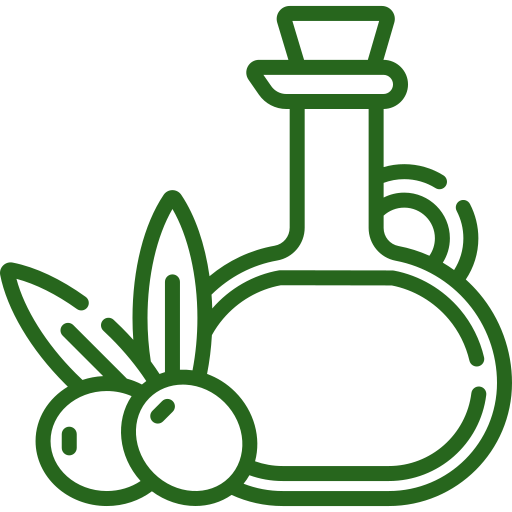
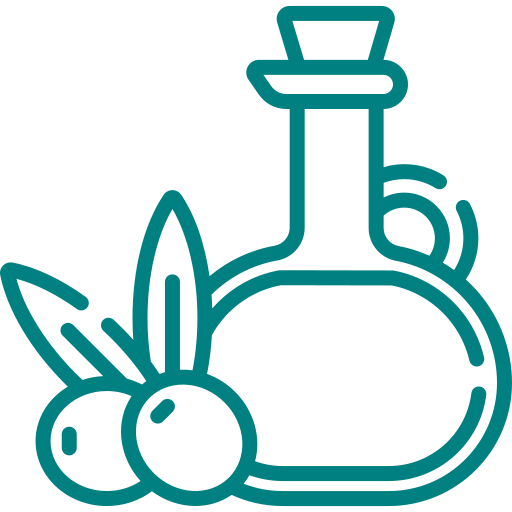
AGROAPP-56 Mejora de los iconos de aceit

Changed region(s): [[0.0, 0.0, 1.0, 1.0]]

diff --git a/src/pages/facturas-aceite-detalle/facturas-aceite-detalle.module.ts b/src/pages/facturas-aceite-detalle/facturas-aceite-detalle.module.ts
@@ -1,13 +1,13 @@
 import { NgModule } from '@angular/core';
 import { IonicPageModule } from 'ionic-angular';
-import { FFacturasAceiteDetallePage } from './facturas-aceite-detalle';
+import { FacturasAceiteDetallePage } from './facturas-aceite-detalle';
 
 @NgModule({
   declarations: [
-    FFacturasAceiteDetallePage,
+    FacturasAceiteDetallePage,
   ],
   imports: [
-    IonicPageModule.forChild(FFacturasAceiteDetallePage),
+    IonicPageModule.forChild(FacturasAceiteDetallePage),
   ],
 })
 export class FFacturasAceiteDetallePageModule {}

diff --git a/src/pages/facturas-aceite-detalle/facturas-aceite-detalle.html b/src/pages/facturas-aceite-detalle/facturas-aceite-detalle.html
@@ -22,7 +22,7 @@
   <ion-list>
     <ion-item class="letra">
       <ion-thumbnail item-start>
-        <img src="assets/imgs/tienda.png">
+        <img src="assets/imgs/olive-oil.png">
       </ion-thumbnail>
       <h2 class="myGreen">ACEITE</h2>
       <span class="myGreen">{{factura.numfactu}} {{factura.fecfactu}}</span>

diff --git a/src/pages/facturas-aceite-detalle/facturas-aceite-detalle.ts b/src/pages/facturas-aceite-detalle/facturas-aceite-detalle.ts
@@ -11,7 +11,7 @@ import * as moment from 'moment';
   selector: 'page-facturas-aceite-detalle',
   templateUrl: 'facturas-aceite-detalle.html',
 })
-export class FFacturasAceiteDetallePage {
+export class FacturasAceiteDetallePage {
  settings: any = {};
   version: string = "ARIAGRO APP V2";
   campanya: any = {};

diff --git a/src/pages/facturas-aceite/facturas-aceite.html b/src/pages/facturas-aceite/facturas-aceite.html
@@ -22,7 +22,7 @@
   <ion-list>
     <ion-item>
       <ion-thumbnail item-start>
-        <img src="assets/imgs/tienda.png">
+        <img src="assets/imgs/olive-oil.png">
       </ion-thumbnail>
       <h2 class="myGreen">ACEITE</h2>
       Facturas:
